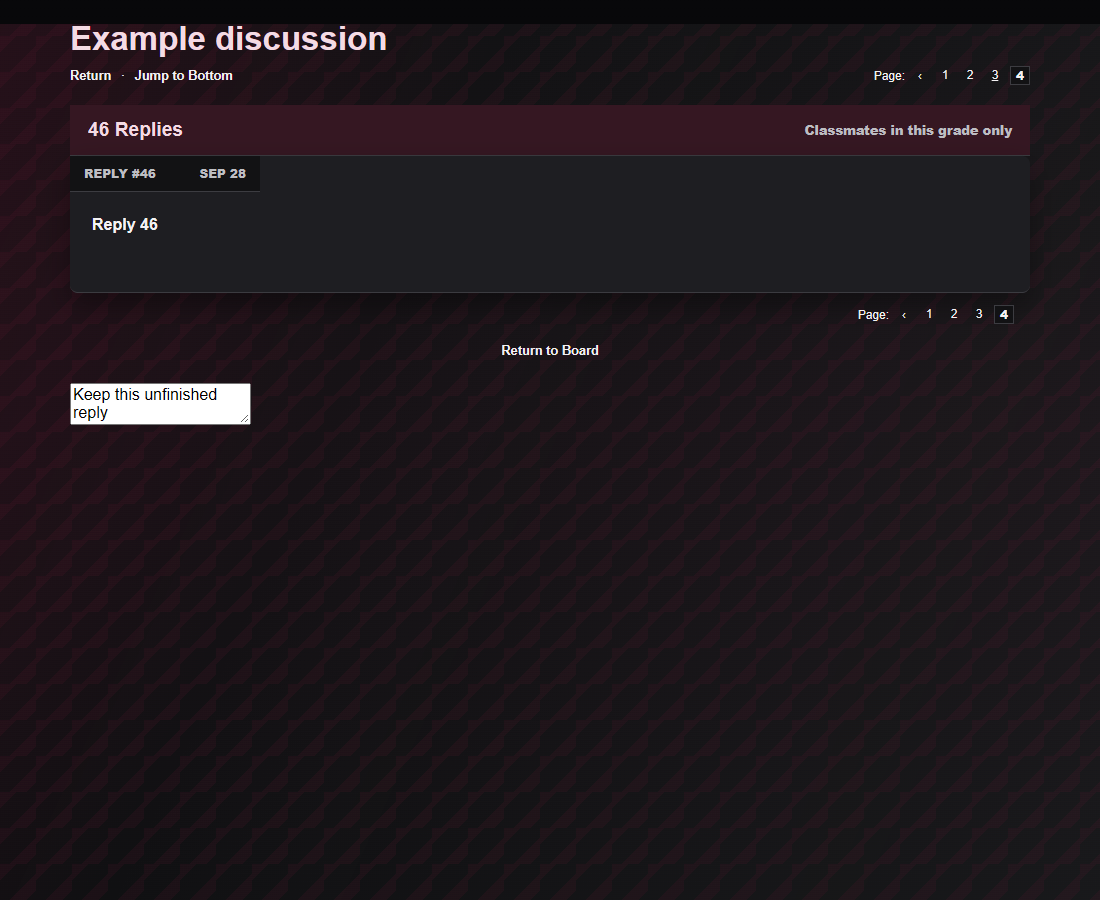
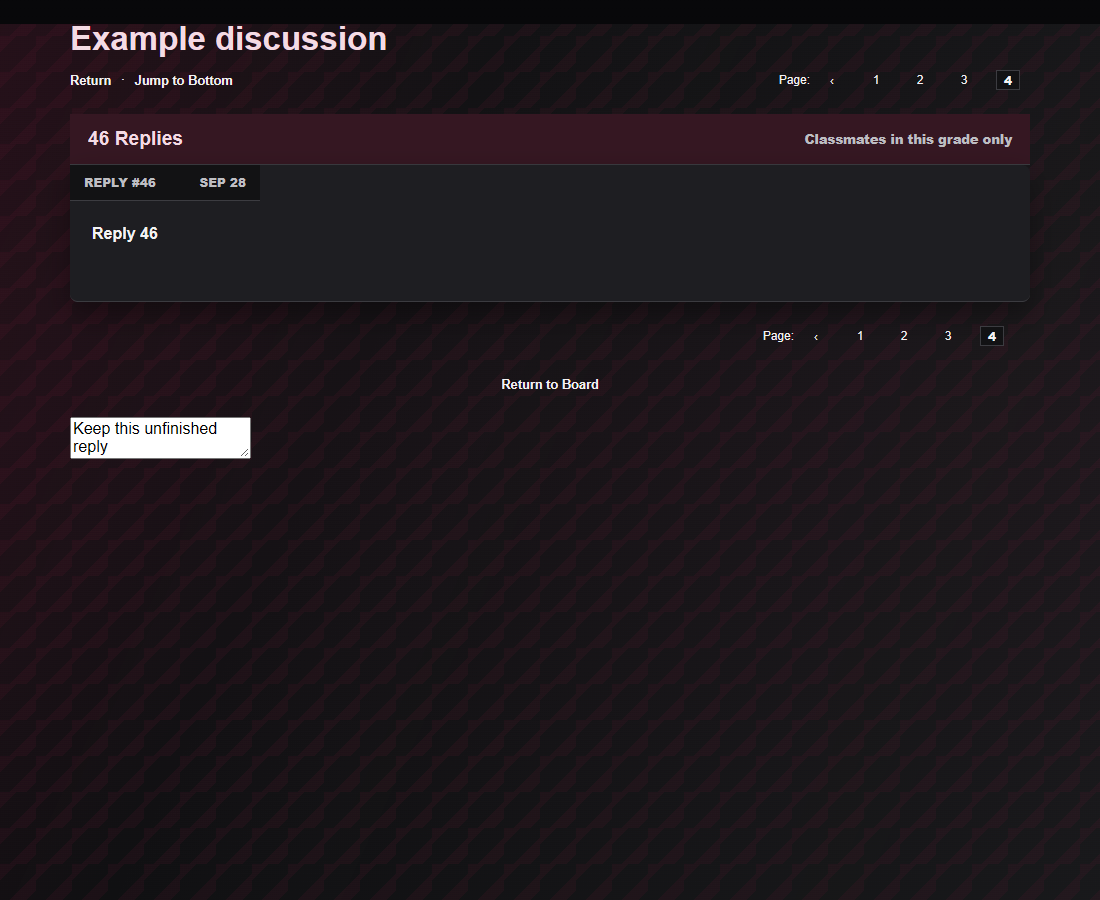
Improve topic and thread pagination click targets

diff --git a/work/verify-pagination-hit-areas.js b/work/verify-pagination-hit-areas.js
@@ -1,0 +1,47 @@
+const fs = require('fs'), assert = require('assert/strict'), { chromium } = require('playwright');
+(async () => {
+  const src = fs.readFileSync('app.js', 'utf8');
+  const table = src.slice(src.indexOf('function renderThreadTable('), src.indexOf('function renderThreadRow('));
+  const paging = src.slice(src.indexOf('function threadReplyPageData('), src.indexOf('function renderThreadDetail('));
+  const topicHandler = src.slice(src.indexOf('  if (action === "coltCornerTopicPage")'), src.indexOf('  if (action === "gradebookGrade")'));
+  const replyHandler = src.slice(src.indexOf('  if (action === "threadReplyPage")'), src.indexOf('  if (action === "openThread")'));
+  const browser = await chromium.launch({ executablePath: 'C:/Program Files (x86)/Google/Chrome/Application/chrome.exe', headless: true });
+  try {
+    const page = await browser.newPage();
+    for (const width of [1100, 390, 320]) for (const theme of ['light', 'night']) {
+      await page.setViewportSize({ width, height: 900 });
+      await page.goto('about:blank');
+      await page.setContent(`<style>${fs.readFileSync('styles.css', 'utf8')}</style><body data-theme="${theme}"><main class="app-shell" id="app"></main></body>`);
+      await page.addScriptTag({ content: `
+        let coltCornerTopicPage=1;const COLT_CORNER_TOPICS_PER_PAGE=15,THREAD_REPLIES_PER_PAGE=15,threadReplyPages=new Map();
+        const threads=Array.from({length:150},(_,id)=>({id})),visibleColtCornerThreads=()=>threads,renderThreadRow=()=>'',emptyCard=x=>x;
+        const getThreadReplies=t=>t.replies,renderThreadReply=()=>'',escapeHtml=String,markVisibleColtCornerTopicsSeen=()=>{};
+        const classThreads=[{id:'test',grade:'5',replies:Array.from({length:150},(_,id)=>({id}))}],screen={name:'thread',id:'test'};
+        ${table}${paging}
+        document.getElementById('app').innerHTML=renderThreadTable(threads)+'<div class="thread-navigation-row"><nav class="thread-quick-links">Return · Jump to Bottom</nav><div class="thread-top-pages"></div></div><section class="thread-reply-list"></section><textarea id="replyMessage">Keep my draft</textarea>';
+        document.querySelector('.thread-reply-list').innerHTML=renderThreadReplyList(classThreads[0]);refreshThreadReplyTopPager(classThreads[0]);
+        document.getElementById('app').addEventListener('click',event=>{const target=event.target.closest('[data-action]');if(!target)return;const action=target.dataset.action;${topicHandler}${replyHandler}});
+      ` });
+      for (const label of ['Topic pages top', 'Topic pages bottom', 'Reply pages top', 'Reply pages bottom']) {
+        for (const [number, corner] of [[2, 'top'], [3, 'bottom']]) {
+          const button = page.locator(`nav[aria-label="${label}"] button[aria-label="Page ${number}"]`);
+          await button.scrollIntoViewIfNeeded();
+          const hit = await button.evaluate((e, corner) => {
+            const r=e.getBoundingClientRect(),x=r.left+2,y=corner==='top'?r.top+2:r.bottom-2;
+            return {width:r.width,height:r.height,hit:document.elementFromPoint(x,y)===e,x,y,font:getComputedStyle(e).fontSize};
+          }, corner);
+          assert(hit.width>=44 && hit.height>=44, JSON.stringify(hit));
+          assert(hit.hit, `${label}: corner blocked`);assert.equal(hit.font,'12px');
+          await page.mouse.click(hit.x,hit.y);
+          assert.equal(await page.locator(`nav[aria-label="${label}"] [aria-current="page"]`).innerText(),String(number));
+        }
+      }
+      assert.equal(await page.locator('#replyMessage').inputValue(),'Keep my draft');
+      assert(await page.evaluate(()=>document.documentElement.scrollWidth<=innerWidth), `Overflow at ${width}`);
+      const focus=page.locator('nav[aria-label="Topic pages top"] button[aria-label="Page 2"]');
+      await focus.focus();await page.keyboard.press('Enter');
+      assert.equal(await page.locator('nav[aria-label="Topic pages top"] [aria-current]').innerText(),'2');
+    }
+    console.log('Passed: 44px targets, clicks at expanded edges, top/bottom topic and reply paging, keyboard, draft preservation, light/dark and 320/390/1100px layouts.');
+  } finally { await browser.close(); }
+})().catch(error=>{console.error(error);process.exitCode=1;});

diff --git a/styles.css b/styles.css
@@ -2385,10 +2385,12 @@ body[data-theme="night"] .corner-grade-bell svg { color:#fff; }
 
 .thread-navigation-row { display:flex; justify-content:space-between; align-items:center; flex-wrap:wrap; gap:8px 20px; margin-bottom:12px; }
 .thread-navigation-row .thread-quick-links { margin:0; }
-.thread-top-pages { margin-left:auto; }
-.thread-reply-pages { display:flex; justify-content:flex-end; align-items:center; flex-wrap:wrap; gap:5px; padding:8px 0; color:var(--ink); font-size:.75rem; }
-.thread-reply-pages button { min-width:20px; padding:1px 3px; border:1px solid transparent; border-radius:0; background:none; color:var(--ink); font:inherit; line-height:1.25; cursor:pointer; }
-.thread-reply-pages button[aria-current="page"] { border-color:var(--border); background:var(--paper); font-weight:800; }
+.thread-top-pages { margin-left:auto; max-width:100%; }
+.thread-reply-pages { display:flex; justify-content:flex-end; align-items:center; flex-wrap:wrap; gap:0; min-width:0; padding:0; color:var(--ink); font-size:.75rem; }
+/* Keep the text subtle, but give each page its own non-overlapping touch target. */
+.thread-reply-pages button { position:relative; isolation:isolate; min-width:44px; min-height:44px; padding:12px 10px; border:0; border-radius:0; background:none; color:var(--ink); font:inherit; line-height:1.25; cursor:pointer; }
+.thread-reply-pages button[aria-current="page"] { font-weight:800; }
+.thread-reply-pages button[aria-current="page"]::before { content:""; position:absolute; inset:12px 10px; z-index:-1; border:1px solid var(--border); background:var(--paper); pointer-events:none; }
 .thread-reply-pages button:hover { text-decoration:underline; }
 .thread-reply-pages button:focus-visible { outline:2px solid var(--blue); outline-offset:2px; }
 .thread-bottom-navigation { display:grid; grid-template-columns:1fr auto 1fr; align-items:center; gap:14px 12px; padding:12px 16px 20px; }

diff --git a/index.html b/index.html
@@ -11,7 +11,7 @@
   <link rel="icon" type="image/png" sizes="16x16" href="/favicon-16x16.png?v=20260727-shield2">
   <link rel="apple-touch-icon" sizes="180x180" href="/apple-touch-icon.png?v=20260727-shield2">
   <link rel="manifest" href="/site.webmanifest?v=20260901-single-client-v1">
-  <link rel="stylesheet" href="styles.css?v=20260928-back-to-top-v68">
+  <link rel="stylesheet" href="styles.css?v=20260929-page-targets-v69">
   <link rel="stylesheet" href="launchpad-scenes.css?v=20260928-holiday-motion-v46">
   <link rel="stylesheet" href="scene-frame-fit.css?v=20260927-patriotic-v4">
   <link rel="stylesheet" href="collectible-shelf.css?v=20260927-ten-shelves-v21">
